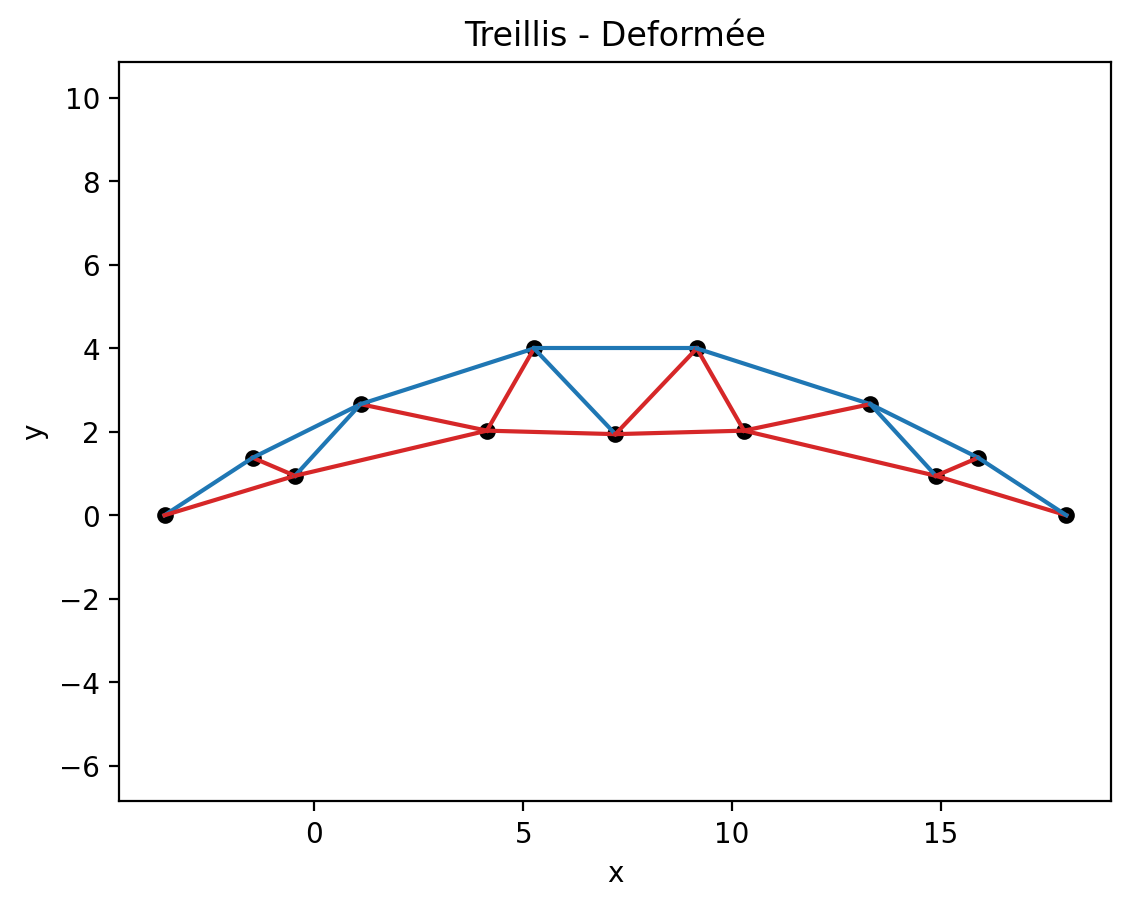
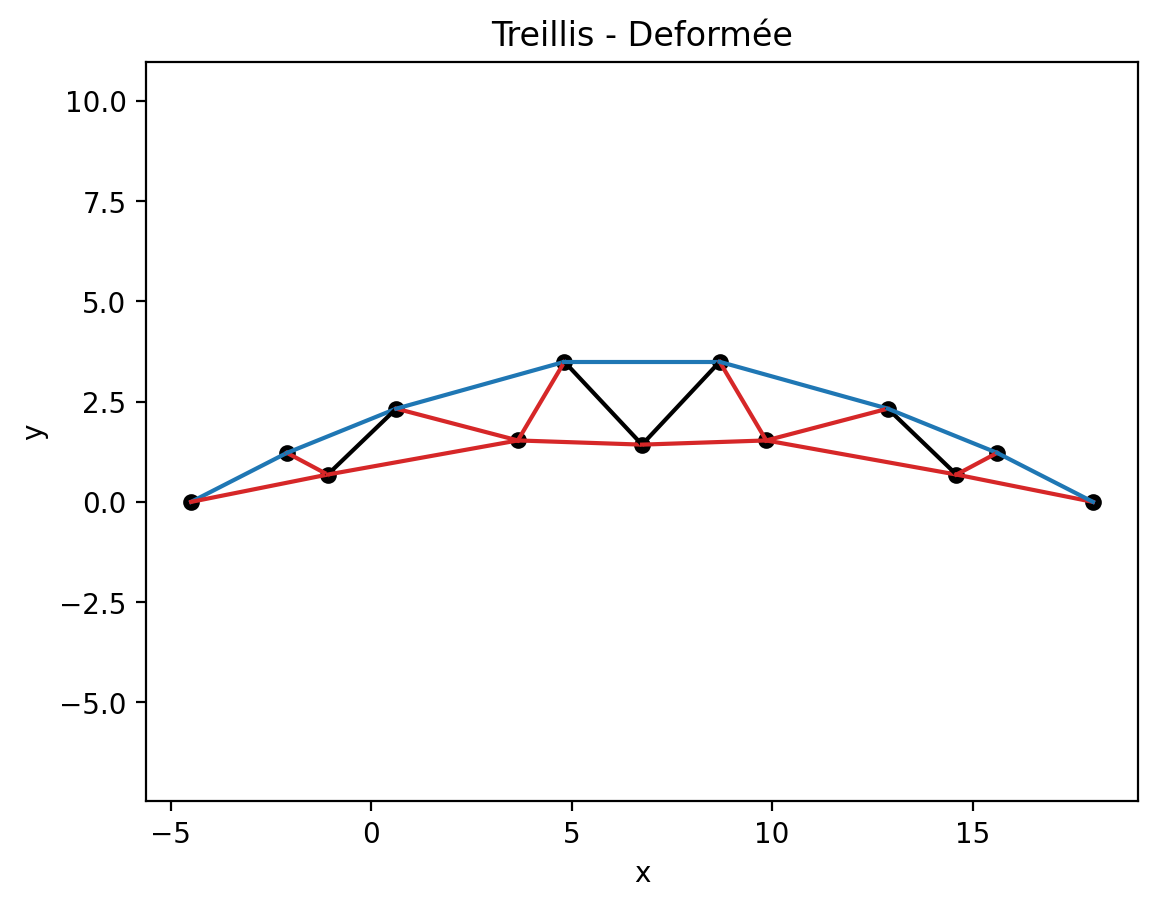
Exemples

diff --git a/rendu_resultats.py b/rendu_resultats.py
@@ -122,7 +122,13 @@ def print_resultats(S: np.ndarray, noeuds: list[Noeud], barres: list[Barre], par
             p1 = b.n1.pos
             p2 = b.n2.pos
             n_i = float(N[i])
-            couleur = "C3" if n_i >= 0 else "C0"  # traction / compression
+            N_seuil = 1e-6 * (max(abs(N))+1)
+            if abs(n_i) < N_seuil:
+                couleur = "k"
+            elif n_i > 0:
+                couleur = "C3"
+            else:
+                couleur = "C0"
             lw = 1.0 + 4.0 * (abs(n_i) / max_abs)
             plt.plot([p1[0], p2[0]], [p1[1], p2[1]], linewidth=lw, color=couleur)
 
@@ -195,14 +201,18 @@ def print_resultats(S: np.ndarray, noeuds: list[Noeud], barres: list[Barre], par
         xs = np.array([float(nd.pos[0]+a*nd.dpos[0]) for nd in noeuds])
         ys = np.array([float(nd.pos[1]+a*nd.dpos[1]) for nd in noeuds])
         plt.scatter(xs, ys, s=25, color="k")
-
-
         # Barres
         for i, b in enumerate(barres):
             p1 = b.n1.pos + a*b.n1.dpos
             p2 = b.n2.pos + a*b.n2.dpos
             n_i = float(N[i])
-            couleur = "C3" if n_i >= 0 else "C0"  # traction / compression
+            N_seuil = 1e-6 * (max(abs(N))+1)
+            if abs(n_i) < N_seuil:
+                couleur = "k"
+            elif n_i > 0:
+                couleur = "C3"
+            else:
+                couleur = "C0"
             plt.plot([p1[0], p2[0]], [p1[1], p2[1]], color=couleur)
 
         plt.axis("equal")

diff --git a/fonctions_resolution.py b/fonctions_resolution.py
@@ -23,14 +23,14 @@ def resolution(noeuds: list[Noeud], barres: list[Barre]) -> np.ndarray:
     
     K = _constru_matrice(noeuds, barres)
     
-    K_inv = _invertion_matrice(K)
+    K_inv = _inversion_matrice(K)
     
     forces = np.zeros(len(K), dtype=float)
     for i in range(0, len(forces), 2):
-        forces[i  ] = -noeuds[int(i/2)].force[0]
-        forces[i+1] = -noeuds[int(i/2)].force[1]
+        forces[i  ] = noeuds[int(i/2)].force[0]
+        forces[i+1] = noeuds[int(i/2)].force[1]
     
-    S = K_inv @ forces
+    S = - K_inv @ forces
 
     """On calcule aussi le résidu, devrait être petit devant les forces"""
     norme = np.linalg.norm(forces)
@@ -75,7 +75,7 @@ def _constru_matrice(noeuds: list[Noeud], barres: list[Barre]) -> np.ndarray:
 
 
 
-def _invertion_matrice(A: np.ndarray) -> np.ndarray:
+def _inversion_matrice(A: np.ndarray) -> np.ndarray:
     """Calcule l'inverse de la matrice de rigidité du système."""
     n = len(A)
     matriceAug = np.zeros((n, 2*n), dtype=float)
@@ -123,6 +123,7 @@ def _invertion_matrice(A: np.ndarray) -> np.ndarray:
 
     
 def _deformation(noeuds: list[Noeud], barres: list[Barre], K_inv: np.ndarray, S: np.ndarray) -> None:
+    """Calcule le déplacement de chaque noeud avec la méthode de Mohr"""
     n = len(noeuds)
     b = len(barres)
     for i in range(n):

diff --git a/lecture_data.py b/lecture_data.py
@@ -73,7 +73,7 @@ def lecture_data(path: str) -> tuple[list[Noeud], list[Barre]]:
                     ux = False
                     uy = False
             else: 
-                raise ValueError(f"Ligne noeud invalide: {line!r}. Attendu: 'x y fx fy flag'.")
+                raise ValueError(f"Ligne noeud invalide: {line!r}. Attendu: 'x y fx fy liaison'.")
             
             idx = len(noeuds) # Les indices des noeuds permettrons d'y accrocher des barres
             pos = np.array([x, y], dtype=float)
